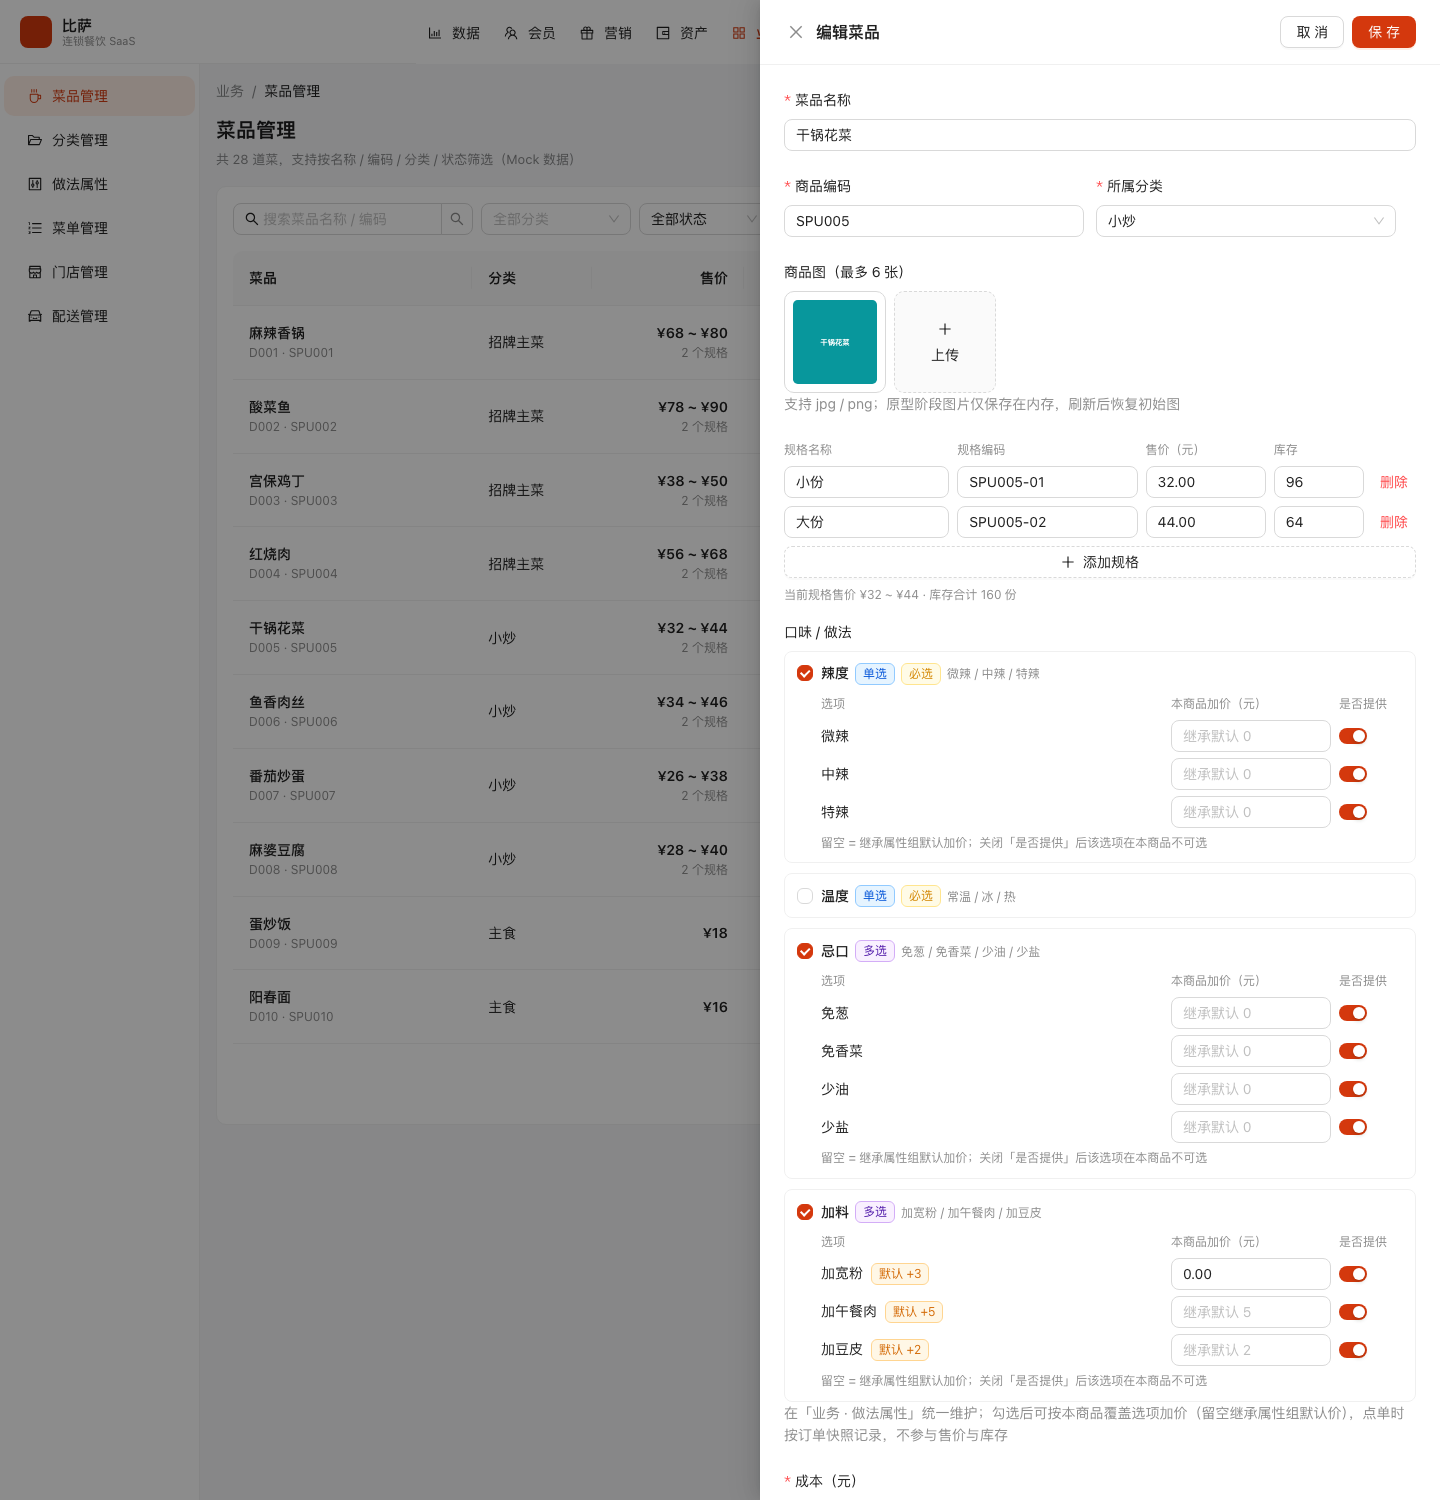
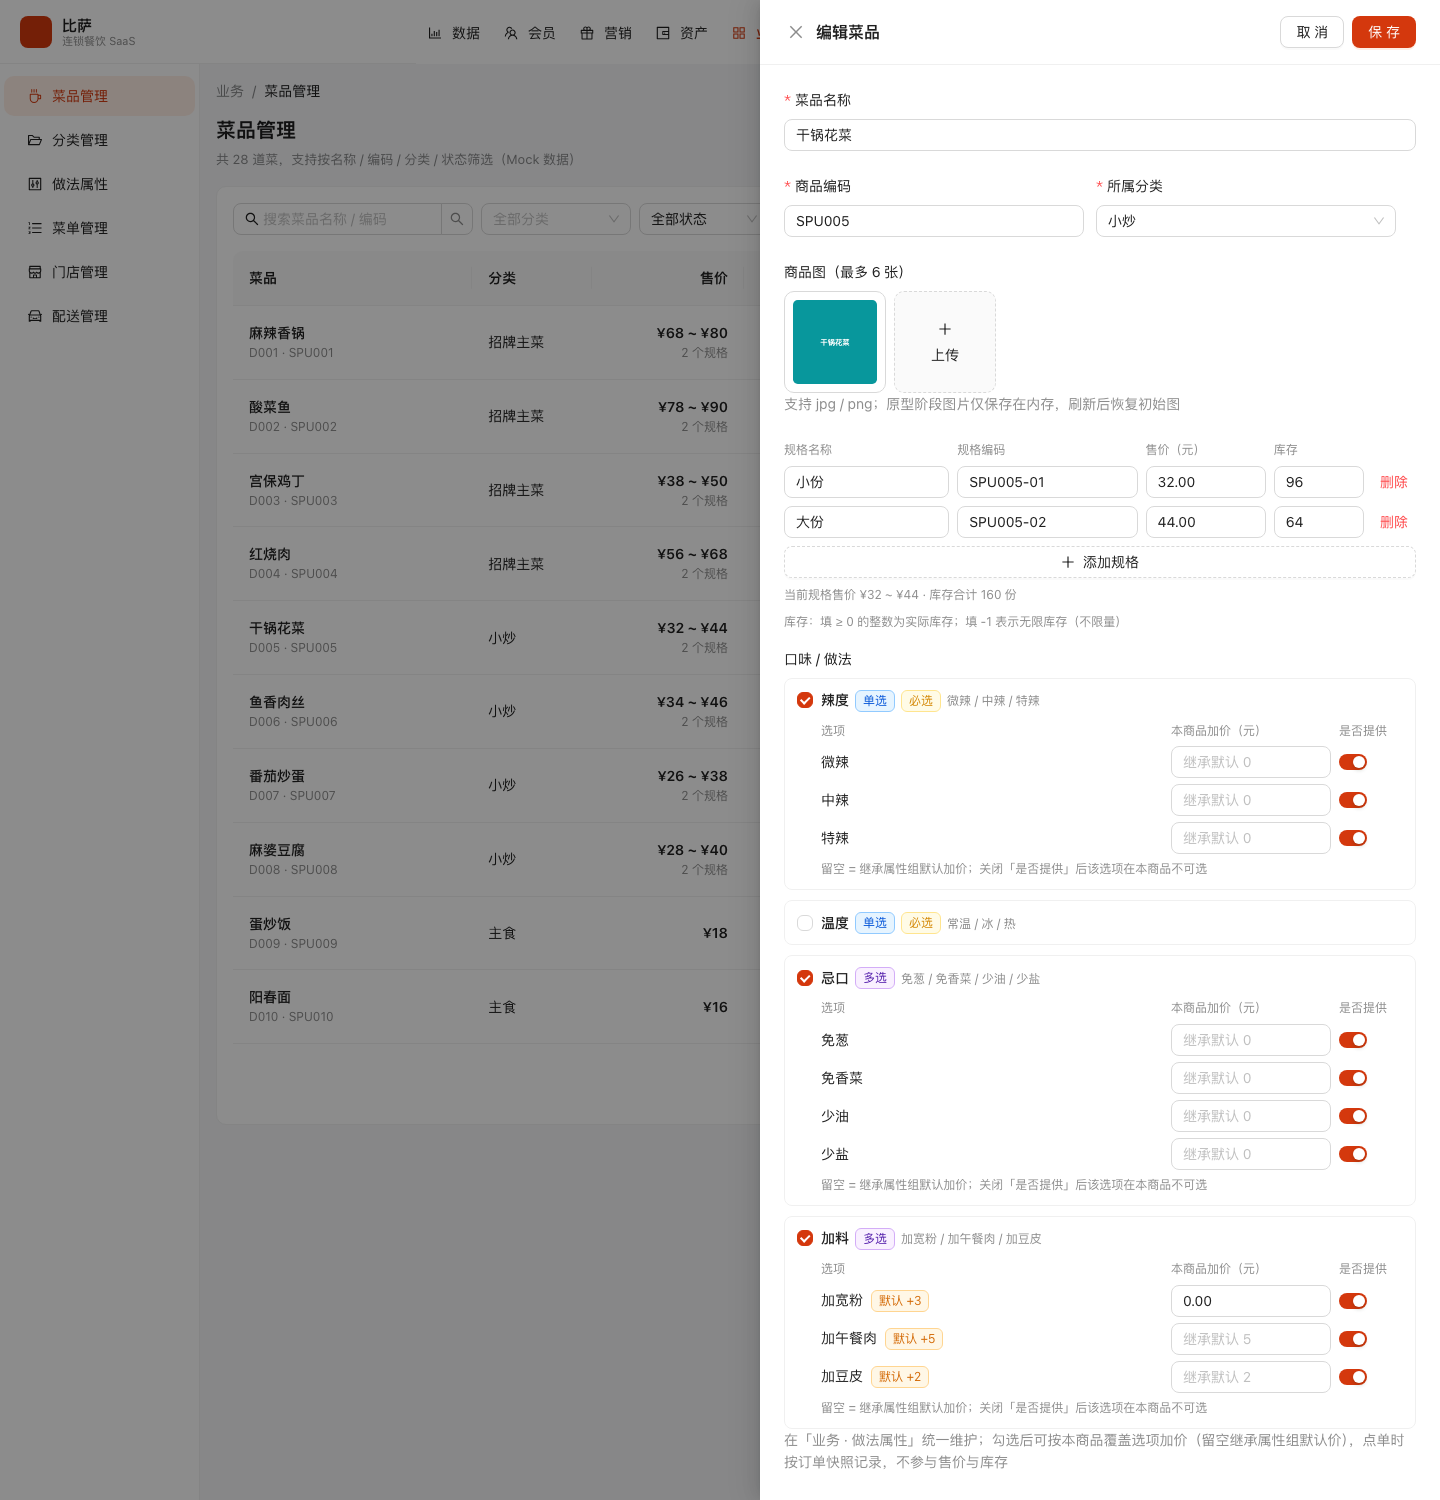
feat: 支持无限库存（stock = -1），并写入接口契约
- 规则：SKU 库存 `-1` 表示无限库存（不限量、随便买）；任一 SKU 为 -1 时 SPU 库存也为 -1
- 数据：DishSku / Dish 的 stock 语义更新；示例数据给蛋炒饭、酸梅汤、冰粉配置为无限库存
- 服务端：保存时校验库存必须为整数且满足 `stock = -1` 或 `stock >= 0`，并做 SPU 汇总（任一 -1 → -1）
- 列表：库存 `-1` 显示蓝色「不限」标签；排序把「不限」排在最后
- 表单：规格库存输入允许 -1，并提示「填 ≥ 0 的整数为实际库存；填 -1 表示无限库存（不限量）」；SKU 汇总显示「库存合计 不限」
- 文档：06-dish.md 补充库存特殊值说明（字段字典、展示规则、SPU/SKU 汇总、保存校验、差异表）；
  OpenAPI schemas/dish.yaml 的 stock 字段 minimum 改为 -1 并补充描述；README 同步
- 截图更新：dishes.png（不限标签）、dishes-drawer.png（无限库存输入与提示）
- 验证：tsc + vite build、25/25 路由无头渲染、无限库存逻辑脚本（-1 混合/非法 -2/小数）与 UI 实测均通过

Changed region(s): [[0.5312, 0.3987, 0.9688, 1.0], [0.6875, 0.3987, 0.7188, 0.4907], [0.75, 0.3987, 0.7812, 0.4293]]

diff --git a/src/pages/Dishes/index.tsx b/src/pages/Dishes/index.tsx
@@ -322,8 +322,18 @@ export default function DishesPage() {
       dataIndex: 'stock',
       width: 110,
       align: 'right',
-      sorter: (a, b) => a.stock - b.stock,
+      sorter: (a, b) => {
+        const effective = (value: number) => (value === -1 ? Number.MAX_SAFE_INTEGER : value);
+        return effective(a.stock) - effective(b.stock);
+      },
       render: (value: number) => {
+        if (value === -1) {
+          return (
+            <Tag color="blue" style={{ marginInlineEnd: 0 }}>
+              不限
+            </Tag>
+          );
+        }
         if (value === 0) return <span className="stock-empty">缺货</span>;
         if (value < 20) return <span className="stock-low">{value} 份</span>;
         return `${value} 份`;
@@ -388,8 +398,11 @@ export default function DishesPage() {
     const prices = priced.map((sku) => Number(sku.price));
     const min = Math.min(...prices);
     const max = Math.max(...prices);
+    const unlimited = list.some((sku) => Number(sku?.stock) === -1);
     const stock = list.reduce((sum, sku) => sum + (Number(sku?.stock) || 0), 0);
-    return `当前规格售价 ${min === max ? money(min) : `${money(min)} ~ ${money(max)}`} · 库存合计 ${stock} 份`;
+    return `当前规格售价 ${min === max ? money(min) : `${money(min)} ~ ${money(max)}`} · 库存合计 ${
+      unlimited ? '不限' : `${stock} 份`
+    }`;
   })();
 
   return (
@@ -587,7 +600,13 @@ export default function DishesPage() {
                         name={[field.name, 'stock']}
                         rules={[{ required: true, message: '请输入库存' }]}
                       >
-                        <InputNumber min={0} max={9999} precision={0} style={{ width: '100%' }} placeholder="100" />
+                        <InputNumber
+                          min={-1}
+                          max={9999}
+                          precision={0}
+                          style={{ width: '100%' }}
+                          placeholder="100 / -1"
+                        />
                       </Form.Item>
                       <Button
                         type="text"
@@ -618,6 +637,7 @@ export default function DishesPage() {
               )}
             </Form.List>
             {skuSummary && <div className="sku-summary">{skuSummary}</div>}
+            <div className="sku-summary">库存：填 ≥ 0 的整数为实际库存；填 -1 表示无限库存（不限量）</div>
           </div>
 
           <Form.Item

diff --git a/src/services/dish.ts b/src/services/dish.ts
@@ -60,6 +60,7 @@ export interface DishSkuInput {
   code: string;
   specName: string;
   price: number;
+  /** 库存；`-1` 表示无限库存（不限量）。 */
   stock: number;
 }
 
@@ -89,6 +90,11 @@ export async function saveDish(input: DishInput): Promise<Dish> {
   if (!input.skus || input.skus.length === 0) throw new Error('至少需要保留一个规格');
   if (input.images && input.images.length > 6) throw new Error('商品图最多 6 张');
 
+  const invalidSku = input.skus.find(
+    (sku) => !Number.isInteger(sku.stock) || (sku.stock < 0 && sku.stock !== -1),
+  );
+  if (invalidSku) throw new Error(`规格「${invalidSku.specName || invalidSku.code}」库存需为 ≥ 0 的整数，或 -1 表示无限库存`);
+
   const code = input.code.trim().toUpperCase();
   const duplicated = dishes.find((dish) => dish.id !== input.id && dish.code === code);
   if (duplicated) throw new Error(`商品编码「${code}」已存在`);
@@ -104,7 +110,10 @@ export async function saveDish(input: DishInput): Promise<Dish> {
 
   // SPU 的基础价 / 库存由 SKU 汇总推导，保证「列表展示」和「规格明细」永远一致
   const price = Math.min(...skus.map((sku) => sku.price));
-  const stock = skus.reduce((sum, sku) => sum + sku.stock, 0);
+  // 任一规格无限库存（-1）时，SPU 库存也是 -1；否则为各 SKU 合计
+  const stock = skus.some((sku) => sku.stock === -1)
+    ? -1
+    : skus.reduce((sum, sku) => sum + sku.stock, 0);
   // 属性绑定规范化：丢弃不存在的属性组 / 选项，加价只保留非负数值
   const attributeBindings: DishAttributeBinding[] = [];
   (input.attributeBindings ?? []).forEach((binding) => {

diff --git a/src/mock/db.ts b/src/mock/db.ts
@@ -123,11 +123,18 @@ function buildSkus(dishId: string, index: number, category: string, price: numbe
   }));
 }
 
+/** 无限库存示例：这些菜品不参与库存计数（stock = -1，不限量购买）。 */
+const UNLIMITED_STOCK_INDEXES = new Set([8, 13, 17]);
+
 export const dishes: Dish[] = dishSeed.map(([name, category, price, cost, description], i) => {
   const id = `D${String(i + 1).padStart(3, '0')}`;
   // 库存不消耗随机种子，保证其它模块的 Mock 数据不因新增字段而漂移
   const baseStock = i === 22 ? 0 : 12 + ((i * 37) % 160);
-  const skus = buildSkus(id, i, category, price, baseStock);
+  const unlimited = UNLIMITED_STOCK_INDEXES.has(i);
+  const skus = buildSkus(id, i, category, price, baseStock).map((sku) => ({
+    ...sku,
+    stock: unlimited ? -1 : sku.stock,
+  }));
 
   return {
     id,
@@ -137,8 +144,10 @@ export const dishes: Dish[] = dishSeed.map(([name, category, price, cost, descri
     // SPU 基础价 = 最低 SKU 价（本 Mock 里首个规格沿用原价，所以与历史数据一致）
     price: Math.min(...skus.map((sku) => sku.price)),
     cost,
-    // SPU 库存 = 各 SKU 库存合计
-    stock: skus.reduce((sum, sku) => sum + sku.stock, 0),
+    // SPU 库存：任一 SKU 为 -1（无限库存）则为 -1，否则为各 SKU 库存合计
+    stock: skus.some((sku) => sku.stock === -1)
+      ? -1
+      : skus.reduce((sum, sku) => sum + sku.stock, 0),
     images: [dishImage(name, IMAGE_PALETTE[i % IMAGE_PALETTE.length])],
     skus,
     attributeBindings: attributeBindingsForCategory(category),

diff --git a/src/types.ts b/src/types.ts
@@ -28,6 +28,7 @@ export interface DishSku {
   /** 规格名称，如「小份」「大杯」。 */
   specName: string;
   price: number;
+  /** 该规格库存（份）；`-1` 表示无限库存（不限量）。 */
   stock: number;
 }
 
@@ -40,7 +41,10 @@ export interface Dish {
   /** 基础售价 = 全部 SKU 中的最低价（订单快照、对账单按它计算）。 */
   price: number;
   cost: number;
-  /** 当前库存 = 全部 SKU 库存合计。 */
+  /**
+   * 当前库存（份）：`-1` 表示无限库存（不限量），否则为全部 SKU 库存合计。
+   * 只要有任一 SKU 为 `-1`，SPU 库存即为 `-1`。
+   */
   stock: number;
   /** 商品图，最多 6 张；Mock 用内联 SVG 占位。 */
   images: string[];

diff --git a/docs/api/06-dish.md b/docs/api/06-dish.md
@@ -16,7 +16,7 @@
 - 分类选项：进入页面时加载，同时用于筛选下拉与新增/编辑表单；
 - 新增 / 编辑：右侧抽屉表单（商品编码、名称、分类、商品图、规格 SKU、口味 / 做法属性引用、成本、状态、描述）；
 - 上下架：列表行内 `Switch` 切换 `on`（在售）/ `off`（已下架）；关闭时前端二次确认，提示「下架不影响已生成的订单，用户将无法购买此商品，确定要下架吗？」；
-- 列表展示：菜品名称 + 系统编号/商品编码、分类、售价区间（多规格）、库存合计、销量、状态、更新时间（成本与毛利率不在列表展示，成本仅用于对账单核算）；
+- 列表展示：菜品名称 + 系统编号/商品编码、分类、售价区间（多规格）、库存合计（`-1` 显示「不限」）、销量、状态、更新时间（成本与毛利率不在列表展示，成本仅用于对账单核算）；
 - 删除：二次确认后删除。
 
 **前端数据流**：`页面 → src/services/dish.ts → src/mock/db.ts` 的 `dishes` 内存数组。真实后端只需替换 service 层实现，页面无需改动。
@@ -24,6 +24,7 @@
 **本期未建模**（`Dish` 类型中不存在，不纳入本期契约）：门店级价格与上下架、点单时的属性选择快照、销量写入（`sales` 只读）。分类字典 CRUD 见「业务 · 分类管理」页面、做法属性组 CRUD 见「业务 · 做法属性」页面（两者接口契约待补）。
 
 > 数据模型为 **SPU + SKU**：`Dish` 是 SPU（菜品），`skus` 是规格（SKU）；SPU 的 `price`（最低 SKU 价）与 `stock`（SKU 库存合计）由 SKU 汇总推导。
+> **库存特殊值**：`stock = -1` 表示**无限库存（不限量，随便买）**；SKU 与 SPU 都适用，只要任一 SKU 为 `-1`，SPU 的 `stock` 即为 `-1`。
 
 ## 二、前端函数 → HTTP 接口映射
 
@@ -74,7 +75,7 @@
 | `category` | string | 所属分类，取值见 3.2 |
 | `price` | number | 基础售价（元）= 全部 SKU 中最低价，服务端按 SKU 汇总推导，不接受客户端直接写入 |
 | `cost` | number | 成本，单位「元」，两位小数（Mock 种子为整数，如 `26`）；仅用于成本/毛利核算，不在列表展示 |
-| `stock` | number | 当前库存（份）= 全部 SKU 库存合计，服务端按 SKU 汇总推导 |
+| `stock` | number | 当前库存（份）= 全部 SKU 库存合计，服务端按 SKU 汇总推导；**`-1` 表示无限库存（不限量）**，任一 SKU 为 `-1` 时 SPU 即为 `-1` |
 | `images` | string[] | 商品图，最多 6 张；元素为图片 URL（Mock 为内联 SVG dataURL），不在列表展示 |
 | `skus` | DishSku[] | 规格（SKU）列表，至少 1 条，字段见 3.4 |
 | `attributeBindings` | DishAttributeBinding[] | 做法 / 口味属性绑定（可空）：引用属性组并可按本商品覆盖选项加价 / 隐藏选项，结构见 3.6；不参与售价与库存 |
@@ -91,13 +92,13 @@
 | `code` | string | SKU 编码，如 `SPU001-01`；建议同一 SPU 内唯一 |
 | `specName` | string | 规格名称，如「小份」「大份」「中杯」 |
 | `price` | number | 该规格售价（元），两位小数 |
-| `stock` | number | 该规格库存（份），整数，`≥ 0` |
+| `stock` | number | 该规格库存（份），整数，`≥ 0`；**`-1` 表示无限库存（不限量，随便买）** |
 
 ### 3.5 前端展示计算（无接口）
 
 - 列表不再展示成本与毛利率；成本只在前端对账单（`docs/api/09` 待补）做商品成本核算，`cost` 不参与菜品列表的计算列；
 - 售价展示：单规格显示 `¥68`，多规格显示 `¥68 ~ ¥80`（取 SKU 最低价 ~ 最高价），并标注「N 个规格」；
-- 库存展示：`stock = 0` 显示「缺货」（红色）、`0 < stock < 20` 显示预警色（橙色），其余正常显示 `N 份`。预警阈值属于前端展示规则，不落库。
+- 库存展示：`stock = -1` 显示「不限」（蓝色标签，表示无限库存、随便买）；`stock = 0` 显示「缺货」（红色）；`0 < stock < 20` 显示预警色（橙色）；其余正常显示 `N 份`。预警阈值属于前端展示规则，不落库。
 
 ### 3.6 做法属性绑定与加价规则
 
@@ -240,7 +241,7 @@
 | category | string | 是 | 分类名称，须存在于分类字典 |
 | cost | number | 是 | 成本（元），`≥ 0`，最多 2 位小数 |
 | images | string[] | 否 | 商品图，最多 6 张 |
-| skus | DishSkuInput[] | 是 | 规格列表，至少 1 条；每项：`code`（SKU 编码）、`specName`（规格名）、`price`（售价）、`stock`（库存） |
+| skus | DishSkuInput[] | 是 | 规格列表，至少 1 条；每项：`code`（SKU 编码）、`specName`（规格名）、`price`（售价）、`stock`（库存，`-1` 表示无限库存） |
 | attributeBindings | DishAttributeBinding[] | 否 | 做法属性绑定：`groupId` 必填，可选 `required` / `optionPrices` / `disabledOptionIds` |
 | status | string | 是 | `on` / `off`，页面新增时默认 `on` |
 | description | string | 否 | 菜品描述，≤ 120 字符；缺省保存为空串 |
@@ -273,6 +274,7 @@
 - **业务规则**：
   - `id` 由服务端生成：Mock 规则为 `D` + `(dishes.length + 1)` 补零 3 位（当前 28 条 → 新增为 `D029`）。**该规则在删除后会复用已存在编码，生产必须改用独立发号器/自增序列，保证编码永久唯一且不可变**；
   - **SPU / SKU**：`price` 取 `skus` 中最低售价、`stock` 取 `skus` 库存合计，均由服务端推导，忽略客户端传值；`skus` 至少 1 条，`specName`/`code` 非空；
+  - **无限库存**：SKU 的 `stock = -1` 表示该规格无限库存（不限量）；任一 SKU 为 `-1` 时 SPU 的 `stock` 也为 `-1`；保存时校验库存必须是整数且满足 `stock = -1` 或 `stock ≥ 0`；
   - `code`（商品编码）唯一性：Mock 校验重复并报错，生产冲突返回 `40900`；
   - `images` 最多 6 张，超出返回 `40001`；
   - `attributeBindings` 可选；不存在的属性组 / 选项 ID 会被忽略（Mock）／生产建议返回 `40001`；`optionPrices` 只保留非负数值；属性不参与 `price` / `stock` 计算；
@@ -386,7 +388,7 @@
 | 校验 | 无名称唯一/分类存在/引用校验 | `40001` / `40900` 完整校验 |
 | 错误行为 | 更新/删除不存在时静默成功 | `40400` |
 | 上下架 | 仅改 status，不更新 `updatedAt` | 同步 `updatedAt` 并写系统日志 |
-| 库存 | 静态字段，下单不扣减；SPU 库存为 SKU 合计 | 需 SKU 级订单扣减 + 库存流水，缺货拦截下单 |
+| 库存 | 静态字段，下单不扣减；SPU 库存为 SKU 合计；`-1` 表示无限库存 | 需 SKU 级订单扣减 + 库存流水，缺货拦截下单；`-1`（不限量）不参与扣减 |
 | 规格（SKU） | Mock 内置 1~2 个 SKU（固定规则生成），无 SKU 级上下架 | 建议 SKU 级价格 / 库存 / 条码，可独立上下架 |
 | 商品图 | 内联 SVG 占位，dataURL 只存内存 | 对象存储 + CDN，接口返回 URL，限制 ≤ 6 张 |
 | 做法属性 | 属性组独立维护，菜品存绑定（可覆盖选项加价 / 隐藏选项）；未实现点单 | 点单时选择并按订单快照（groupName + labels + 实际加价），不生成 SKU、不扣库存 |

diff --git a/README.md b/README.md
@@ -104,7 +104,7 @@ src/
 11. 券包管理：券包组合、包含券、有效期、发行量。
 
 **业务**
-12. 菜品管理：**SPU + SKU 模型**（一个菜品可配多个规格，每个规格独立售价与库存，列表展示售价区间与库存合计）、商品编码、商品图（最多 6 张）、做法属性引用（可按本商品覆盖选项加价）、搜索名称 / 编码 / 分类 / 状态、缺货与低库存预警、上下架开关（下架二次确认：不影响已生成订单、用户无法购买）、新增/编辑抽屉、删除。
+12. 菜品管理：**SPU + SKU 模型**（一个菜品可配多个规格，每个规格独立售价与库存，列表展示售价区间与库存合计）、商品编码、商品图（最多 6 张）、做法属性引用（可按本商品覆盖选项加价）、搜索名称 / 编码 / 分类 / 状态、库存 `-1` 表示无限库存（列表显示「不限」）、缺货与低库存预警、上下架开关（下架二次确认：不影响已生成订单、用户无法购买）、新增/编辑抽屉、删除。
 13. 分类管理：分类名称 / 编码 / 排序 / 状态 / 关联菜品数，新增、编辑（改名自动同步菜品归属）、启停、删除（分类下有菜品时禁止删除）；菜品表单的分类下拉与分类管理联动。
 14. 做法属性：属性组（辣度 / 温度 / 忌口 / 加料）集中维护——单选 / 多选、是否必选、默认项、选项**默认加价**；商品引用属性组时可对选项**重新设置加价**（A 商品 +3 元、B 商品 0 元），**不设置则取默认值**，显式设 0 表示本商品免费；被菜品引用后点单时选择，属性不参与售价与库存，按订单快照记录；支持增改、启停、删除（被菜品引用时禁止删除）。
 15. 菜单管理：菜单名称、所属门店、菜品数量、生效时段；详情抽屉展示菜品清单。
